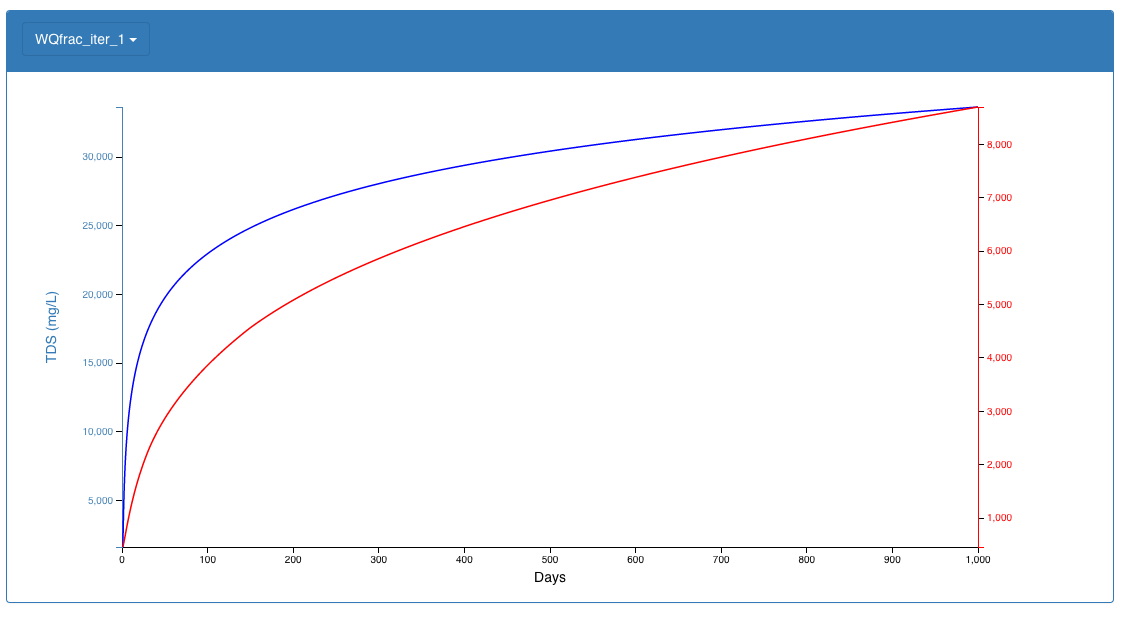
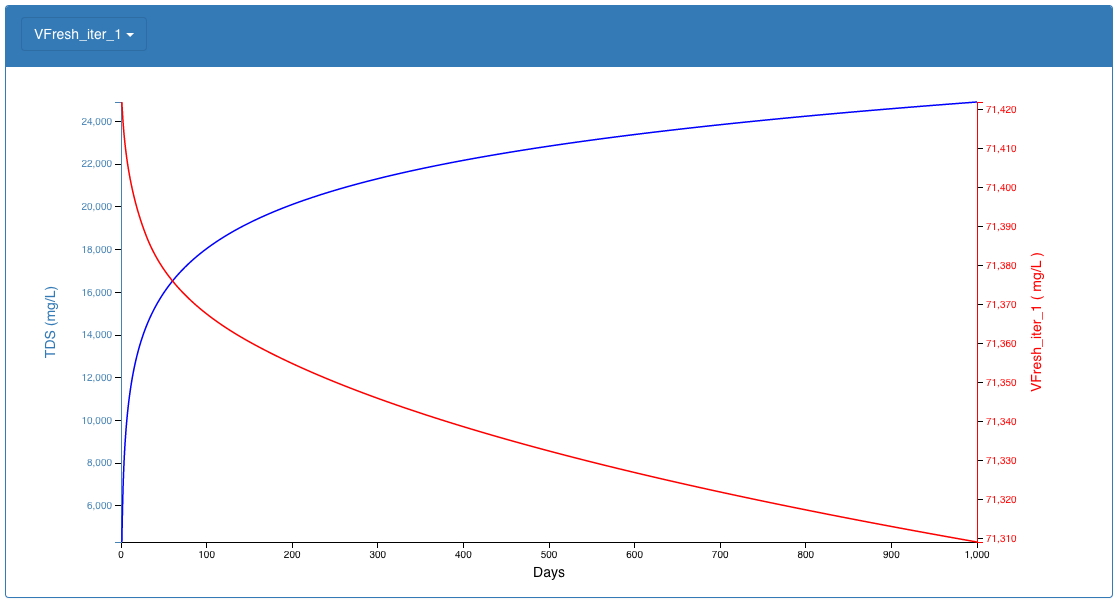
water treatment y2 label units

diff --git a/aquam/templates/solutions/water-treatment-analyzer.html b/aquam/templates/solutions/water-treatment-analyzer.html
@@ -651,7 +651,11 @@
                         .attr("id", "line2")
                         .attr("d", line2_func(data));
                 line2.transition().duration(500).style("opacity", 1);
-                $(".y2label").html(y2);
+                if (id.indexOf("ratio") > -1) {
+                    $(".y2label").html(y2);
+                } else {
+                    $(".y2label").html(y2 + " ( mg/L )");
+                }
                 svg.select(".y2label").transition().duration(500).style("opacity", "1");
             });
         }
